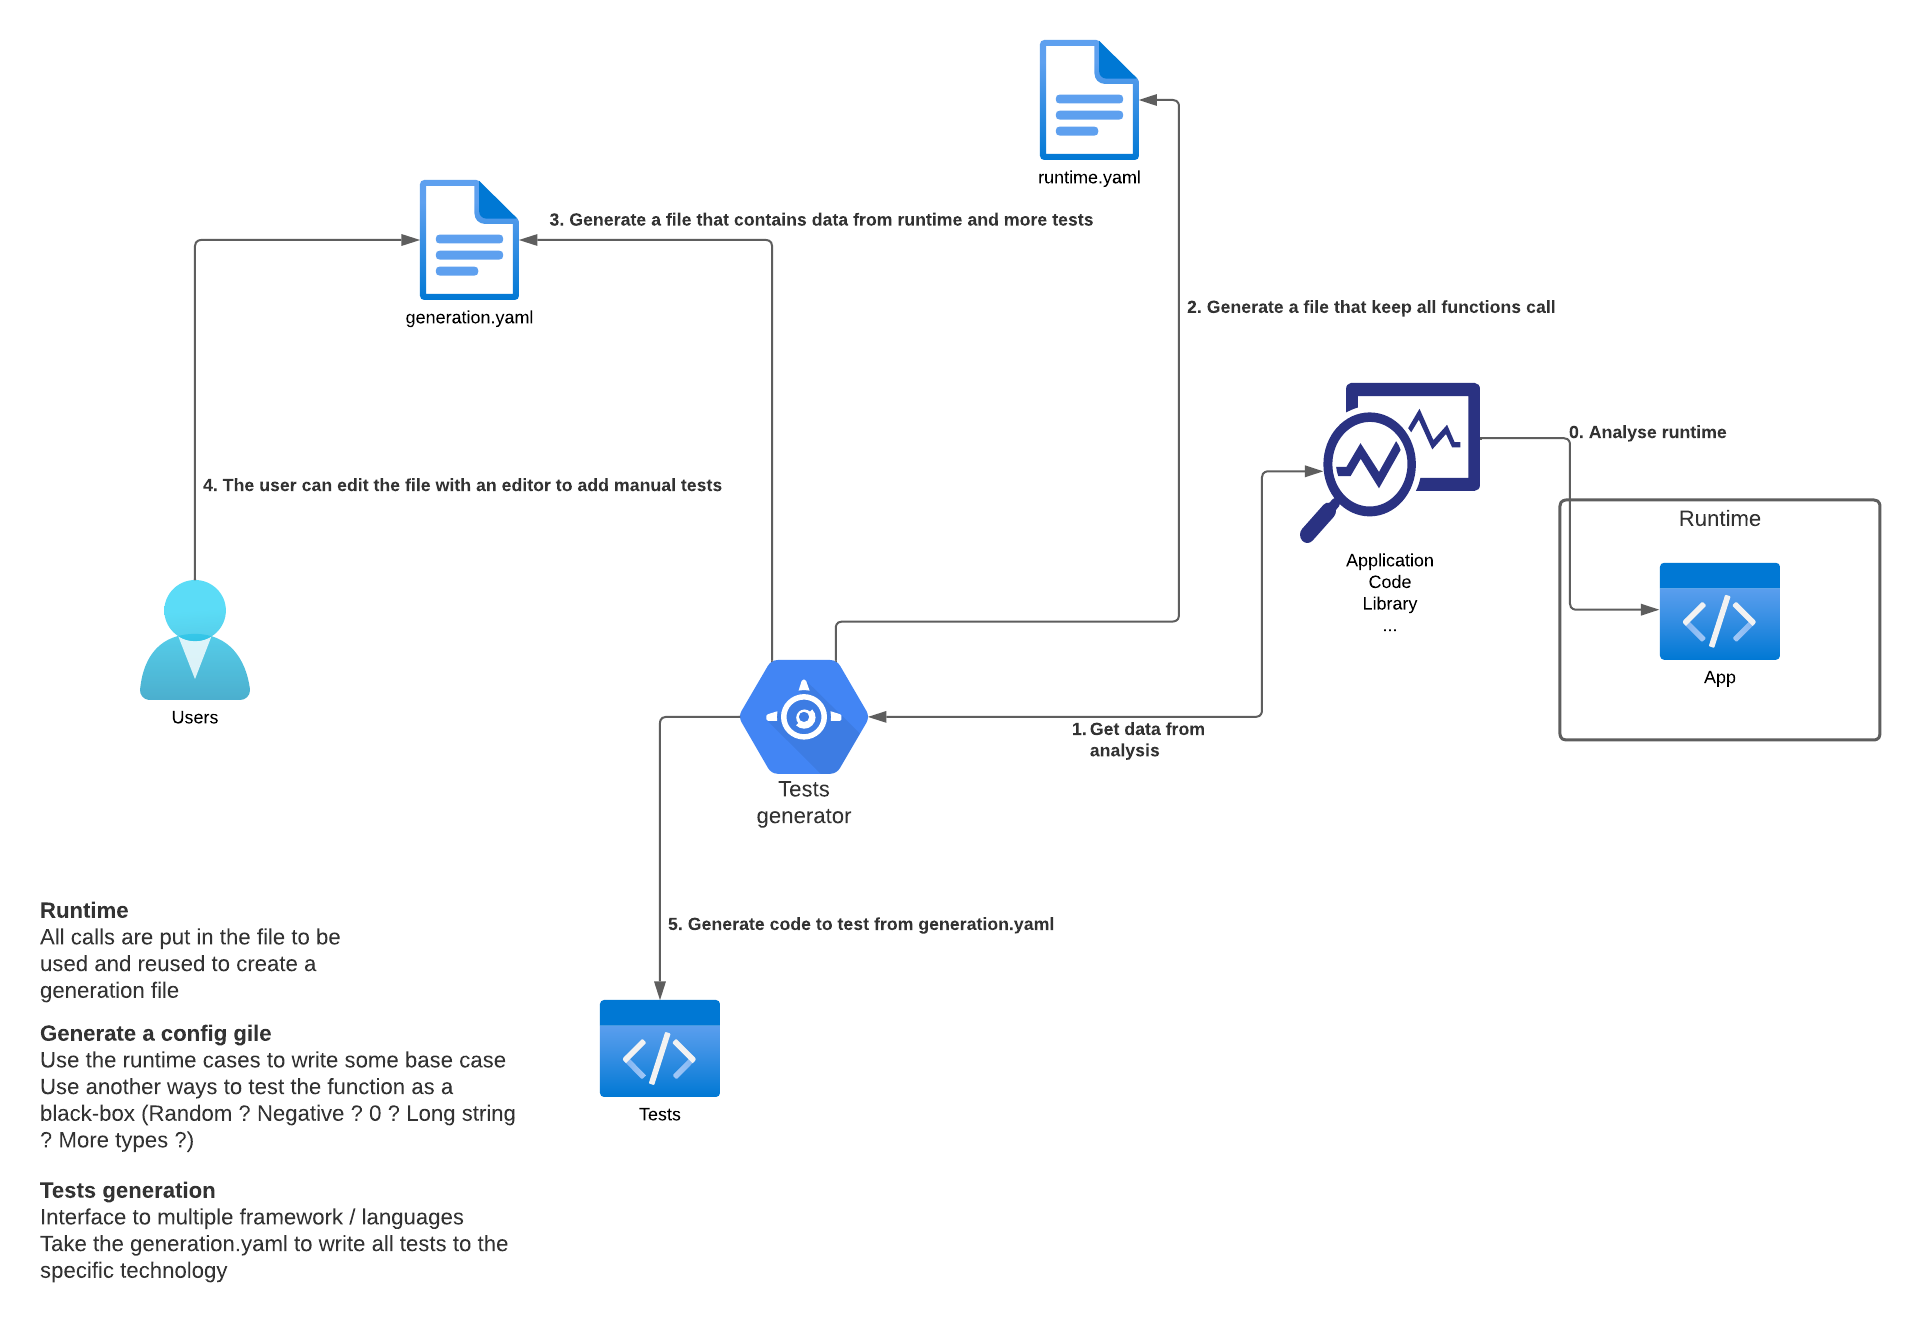
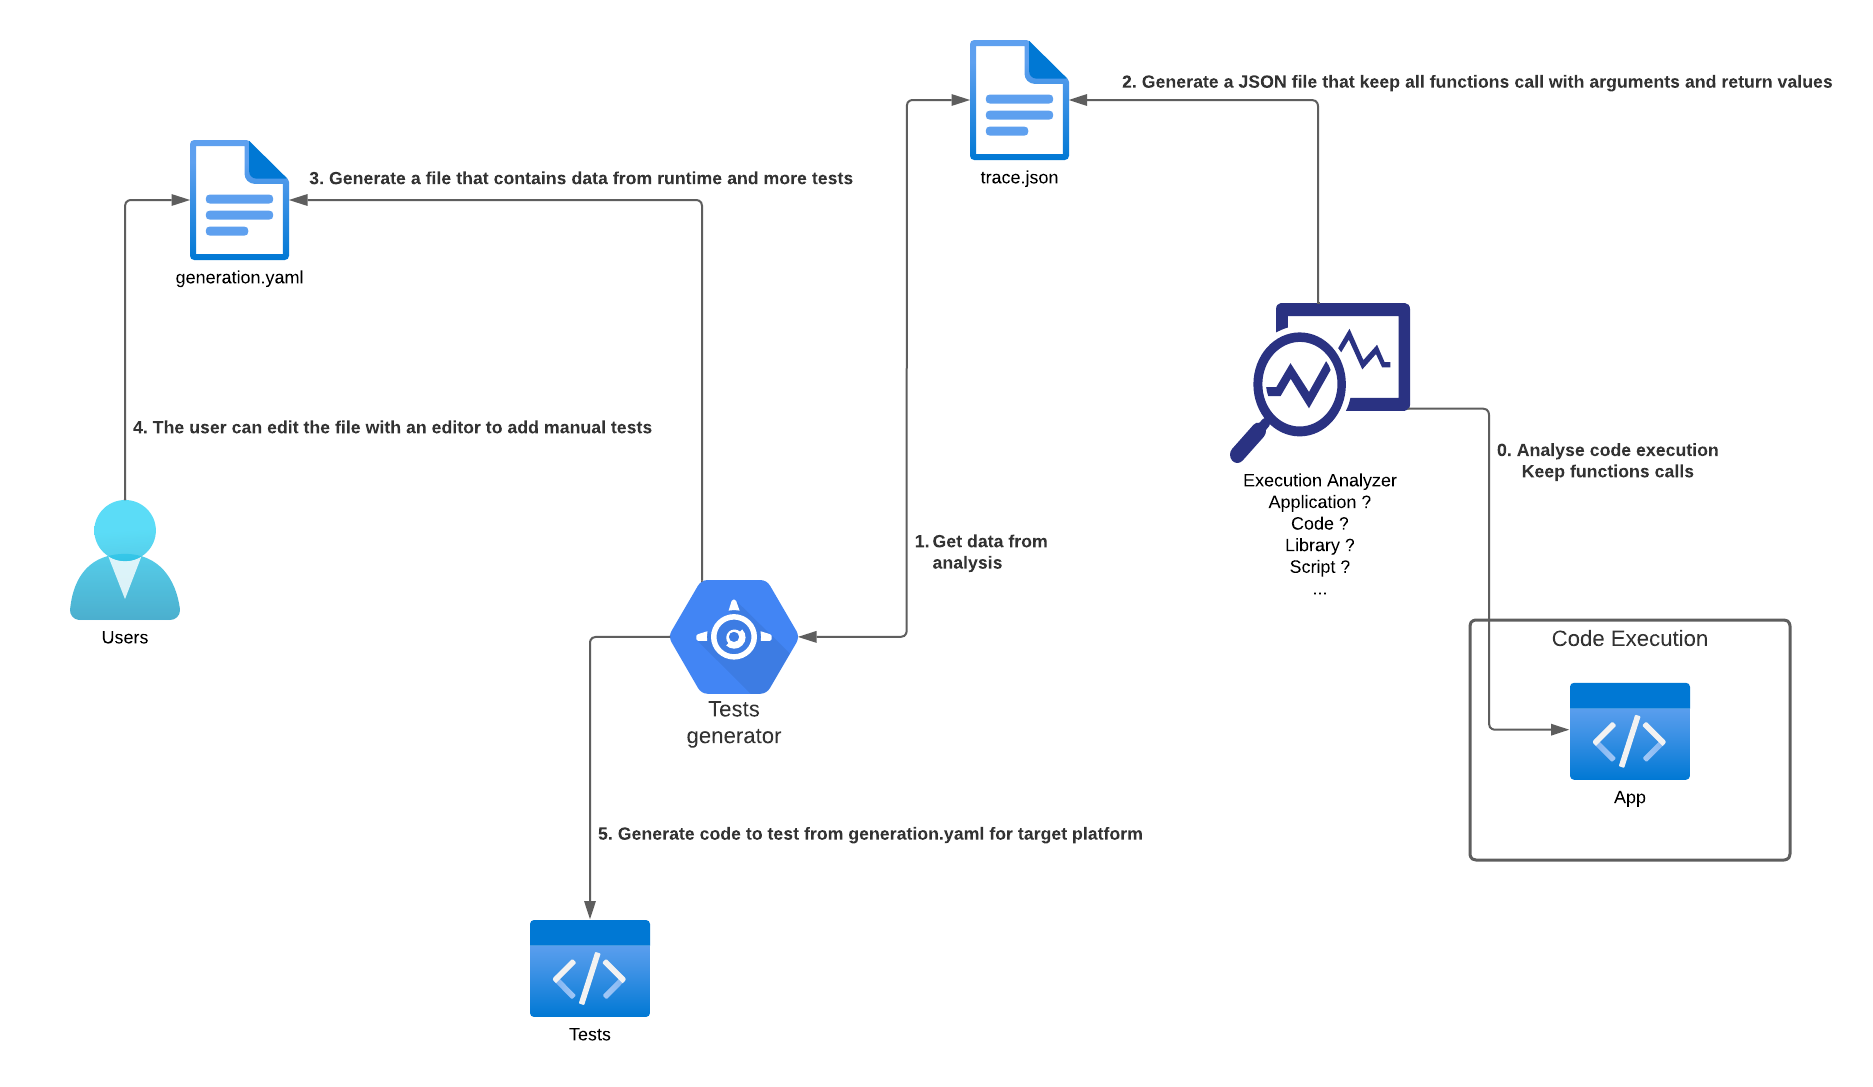
Add more infos to README and new structure

diff --git a/README.md b/README.md
@@ -1,9 +1,19 @@
-# SSE23-Project
+# SSE23-Project - Software Engineering Seminar - 2023
 
-Software Engineering Seminar - 2023
+## Automatic tests generation from execution
 
 ![Schema](docs/images/schema.png)
 
-[PoC Runtime Analysis](poc_runtime/README.md)
+## NodeJS Execution Analyzer
 
-[PoC Wrapper](poc_wrapper/README.md)
+[Analyzer](node_execution_analyzer/README.md)
+
+## Tests generator
+
+[Generator](tests_generator/README.md)
+
+## Proof of concept
+
+[PoC Runtime Analysis](some_proofs_of_concepts/poc_runtime/README.md)
+
+[PoC Wrapper](some_proofs_of_concepts/poc_wrapper/README.md)

diff --git a/node_execution_analyzer/README.md b/node_execution_analyzer/README.md
@@ -1,3 +1,3 @@
-# Node Execution Anylzer
+# NodeJS Execution Anylzer
 
 Get trace from NodeJS execution
